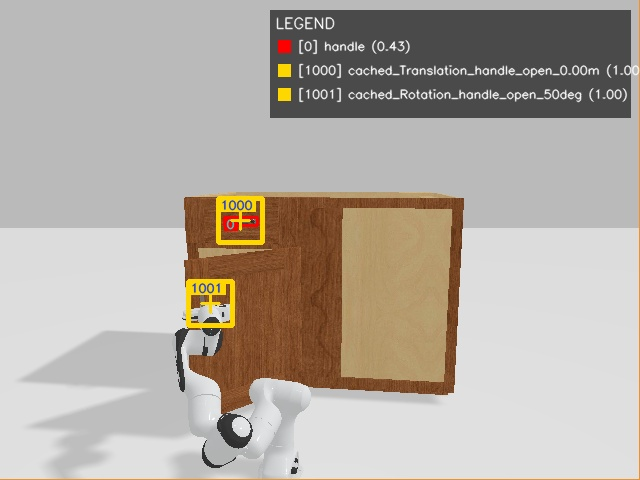
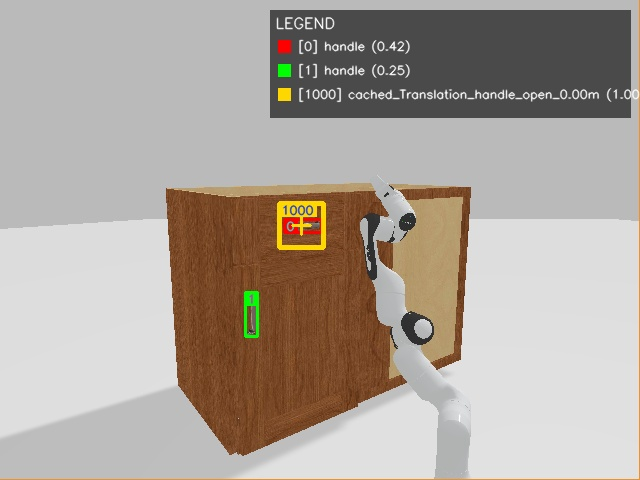
update

diff --git a/action_server.py b/action_server.py
@@ -100,10 +100,11 @@ MAX_DELTA_ANG   = np.deg2rad(2.5)
 GRIPPER_DELTA   = 0.003  # m per step
 GRIPPER_OPEN    = 0.04
 GRIPPER_CLOSED  = 0.000
-GRASP_OFFSET    = 0.08  # m — distance from Panda 'hand' frame to finger tips
-GRASP_DEPTH_OFFSET = 0.015  # m — pull back the target pose to avoid hitting the door
+GRASP_OFFSET    = 0.10  # m — distance from Panda 'hand' frame to finger tips
+
+RESET_RETREAT_DIST = 0.05  # m — move along current gripper -Z before returning home
 TARGET_Z_OFFSET = 0.00   # m — upward shift of the target grasp point
-NORMAL_SCAN_RADIUS = 0.15 # m — radius around handle to sample panel points
+NORMAL_SCAN_RADIUS = 0.1 # m — radius around handle to sample panel points
 
 PULL_LINEAR_DIST = 0.38  # m total drawer pull
 PULL_STEP        = 0.005  # m per step increment
@@ -112,6 +113,7 @@ ARC_STEP         = np.deg2rad(0.4)  # rad per step
 
 # ProbePull / TypeCheck
 PROBE_DISTANCE       = 0.05   # m — small pull for type identification
+PROBE_PULL_TIMEOUT   = 5.0    # s — stop ProbePull even if target distance is not reached
 TYPECHECK_MARGIN     = 0.002  # m — margin for Translation vs Rotation decision
 TYPECHECK_VISUALIZE_OPEN3D = False  # blocking Open3D window after TypeCheck
 EDGE_PERCENTILE      = 10     # % — edge band width for axis fitting
@@ -355,7 +357,7 @@ def project_world_to_pixel(point_world: np.ndarray,
 def backproject_mask_to_pcd(depth: np.ndarray, mask: np.ndarray,
                              cam_pos: np.ndarray, cam_mat: np.ndarray,
                              fovy_deg: float,
-                             max_points: int = 2000) -> np.ndarray:
+                             max_points: Optional[int] = 2000) -> np.ndarray:
     """Back-project all masked depth pixels to world-space point cloud (Nx3)."""
     h, w = depth.shape
     f = (h / 2.0) / np.tan(np.deg2rad(fovy_deg) / 2.0)
@@ -368,7 +370,7 @@ def backproject_mask_to_pcd(depth: np.ndarray, mask: np.ndarray,
     if len(v_idx) == 0:
         return np.zeros((0, 3), dtype=np.float64)
 
-    if len(v_idx) > max_points:
+    if max_points is not None and len(v_idx) > max_points:
         rng = np.random.default_rng(0)
         idxs = rng.choice(len(v_idx), max_points, replace=False)
         v_idx, u_idx, zs = v_idx[idxs], u_idx[idxs], zs[idxs]
@@ -994,10 +996,12 @@ def estimate_panel_normal(depth: np.ndarray, handle_bbox: List[int],
                            cam_pos: np.ndarray, cam_mat: np.ndarray,
                            fovy_deg: float,
                            parent_mask: Optional[np.ndarray] = None,
+                           robot_link_poses: Optional[Dict[str, np.ndarray]] = None,
                            scan_radius: float = NORMAL_SCAN_RADIUS) -> Tuple[np.ndarray, np.ndarray]:
     """
     Estimate the outward face normal of the panel around the handle.
-    Uses a 3D radius search + 2D handle bbox exclusion + SAM mask filtering.
+    Uses a 3D radius search + 2D handle bbox exclusion + optional SAM mask
+    and robot-link filtering.
     """
     h, w = depth.shape
     hx1, hy1, hx2, hy2 = [int(v) for v in handle_bbox]
@@ -1037,11 +1041,24 @@ def estimate_panel_normal(depth: np.ndarray, handle_bbox: List[int],
         if np.linalg.norm(p_world - handle_3d) < scan_radius:
             final_pts.append(p_world)
 
-    if len(final_pts) < 10:
-        print(f"[Planner] [ERROR] normal estimation failed: only {len(final_pts)} points. Using fallback.")
-        return -cam_mat[:, 2], np.array(final_pts) if final_pts else np.zeros((0, 3))
+    pts_world = (np.stack(final_pts)
+                 if final_pts else np.zeros((0, 3), dtype=np.float64))
 
-    pts_world = np.stack(final_pts)
+    robot_segments = get_robot_segments(robot_link_poses or {})
+    if len(pts_world) > 0 and robot_segments:
+        robot_mask = dist_to_robot_segments(pts_world, robot_segments)
+        removed = int(robot_mask.sum())
+        if removed > 0:
+            pts_world = pts_world[~robot_mask]
+            print(f"[Planner] Normal PCD robot filter: removed "
+                  f"{removed}/{removed + len(pts_world)} pts")
+
+    if len(pts_world) < 10:
+        print(f"[Planner] [ERROR] normal estimation failed: only "
+              f"{len(pts_world)} points after filtering "
+              f"(raw={len(final_pts)}). Using fallback.")
+        return -cam_mat[:, 2], pts_world
+
     ctr = pts_world.mean(axis=0)
     _, _, Vt = np.linalg.svd(pts_world - ctr)
     normal = Vt[-1]
@@ -1720,6 +1737,7 @@ class ActionPlanner:
         self.stages     : List[str]      = []
         self.stage_idx  : int            = 0
         self.stage_step_count : int      = 0
+        self.stage_started_at : Optional[float] = None
         self.detections : List[Dict]     = []
 
         self.handle_3d         : Optional[np.ndarray] = None
@@ -1727,6 +1745,9 @@ class ActionPlanner:
         self.grasp_pos         : Optional[np.ndarray] = None
         self.grasp_quat        : Optional[np.ndarray] = None
         self.post_pull_pos     : Optional[np.ndarray] = None
+        self.reset_retreat_pos : Optional[np.ndarray] = None
+        self.reset_retreat_quat: Optional[np.ndarray] = None
+        self.reset_retreat_grip: Optional[float] = None
         self.approach_pos      : Optional[np.ndarray] = None
         self.approach_quat     : Optional[np.ndarray] = None
         self.panel_normal      : Optional[np.ndarray] = None
@@ -1781,6 +1802,7 @@ class ActionPlanner:
         self.probe_end_link_poses     : Dict[str, np.ndarray]        = {}
         self.probe_end_gripper_pos    : Optional[np.ndarray]         = None
         self.probe_end_object_pcd     : Optional[np.ndarray]         = None
+        self.probe_pull_timeout_reported : bool = False
 
         # TypeCheck result
         self.typecheck_result : Optional[Dict] = None
@@ -1809,10 +1831,10 @@ class ActionPlanner:
                 "plan": ["Reset"],
                 "motion_type": "Reset",
             }
-            self.stages = ["Reset"]
+            self.stages = ["ResetRetreat", "Reset"]
             self.state = "EXECUTING"
             self.stage_idx = 0
-            print("[Planner] Reset-only instruction — returning to recorded home pose.")
+            print("[Planner] Reset-only instruction — retreating along gripper -Z, then returning home.")
             return
 
         # ── 1. Detection ───────────────────────────────────────────────────
@@ -1855,10 +1877,10 @@ class ActionPlanner:
         # whether ProbePull / TypeCheck are needed).
         vlm_plan = list(plan["plan"])
         if vlm_plan == ["Reset"]:
-            self.stages = ["Reset"]
+            self.stages = ["ResetRetreat", "Reset"]
             self.state = "EXECUTING"
             self.stage_idx = 0
-            print("[Planner] Reset-only plan — skipping handle geometry.")
+            print("[Planner] Reset-only plan — retreating along gripper -Z, then skipping handle geometry.")
             return
         has_pull = any("Pull" in s for s in vlm_plan)
         has_push = any("Push" in s for s in vlm_plan)
@@ -1879,13 +1901,42 @@ class ActionPlanner:
                   f"ID {handle_det['index']}; handle_3d = {np.round(self.handle_3d, 3)}")
         else:
             bx1, by1, bx2, by2 = handle_det["box"]
-            uc, vc = (bx1 + bx2) / 2.0, (by1 + by2) / 2.0
-            d_val = self._sample_valid_depth(depth, vc, uc, H, W)
+            handle_mask = None
+            if "mask" in handle_det:
+                handle_mask = decode_mask(handle_det["mask"], H, W)
 
-            if d_val > 0:
-                self.handle_3d = backproject_pixel(uc, vc, d_val, cam_pos, cam_mat, fovy, H, W)
+            if handle_mask is not None:
+                handle_pts = backproject_mask_to_pcd(
+                    depth, handle_mask, cam_pos, cam_mat, fovy, max_points=None
+                )
             else:
-                self.handle_3d = point_cloud.mean(axis=0)
+                handle_pts = np.zeros((0, 3), dtype=np.float64)
+
+            if len(handle_pts) > 0:
+                self.handle_3d = handle_pts.mean(axis=0)
+                print(f"[Planner] [Step 4/7] handle mask centroid from "
+                      f"{len(handle_pts)} points.")
+            else:
+                x1 = int(np.clip(np.floor(bx1), 0, W - 1))
+                y1 = int(np.clip(np.floor(by1), 0, H - 1))
+                x2 = int(np.clip(np.ceil(bx2), 0, W - 1))
+                y2 = int(np.clip(np.ceil(by2), 0, H - 1))
+                bbox_mask = np.zeros((H, W), dtype=bool)
+                if x2 >= x1 and y2 >= y1:
+                    bbox_mask[y1:y2 + 1, x1:x2 + 1] = True
+
+                bbox_pts = backproject_mask_to_pcd(
+                    depth, bbox_mask, cam_pos, cam_mat, fovy, max_points=None
+                )
+                if len(bbox_pts) > 0:
+                    self.handle_3d = bbox_pts.mean(axis=0)
+                    print("[Planner] [Step 4/7] WARNING: handle mask unavailable "
+                          f"or empty; used bbox point-cloud centroid from "
+                          f"{len(bbox_pts)} points.")
+                else:
+                    self.handle_3d = point_cloud.mean(axis=0)
+                    print("[Planner] [Step 4/7] WARNING: handle mask and "
+                          "bbox point cloud unavailable; used point cloud mean.")
 
             self.handle_3d[2] += TARGET_Z_OFFSET
             print(f"[Planner] [Step 4/7] handle_3d = {np.round(self.handle_3d, 3)}")
@@ -1920,7 +1971,8 @@ class ActionPlanner:
             self.panel_normal, self.normal_pts = estimate_panel_normal(
                 depth, handle_det["box"], self.handle_3d,
                 cam_pos, cam_mat, fovy,
-                parent_mask=None
+                parent_mask=None,
+                robot_link_poses=self._curr_link_poses,
             )
             print(f"[Planner] Final normal = {np.round(self.panel_normal, 3)}")
 
@@ -2095,6 +2147,8 @@ class ActionPlanner:
             return np.concatenate([curr_pos, matrix_to_rot6d(curr_rot), [curr_grip]]).astype(np.float32)
 
         stage = self.stages[self.stage_idx]
+        if self.stage_step_count == 0:
+            self.stage_started_at = time.monotonic()
         self.stage_step_count += 1
         tgt_pos, tgt_quat, tgt_grip = self._target(stage, curr_pos, curr_rot, curr_grip)
 
@@ -2122,6 +2176,20 @@ class ActionPlanner:
     def _target(self, stage: str, curr_pos, curr_rot,
                 curr_grip) -> Tuple[np.ndarray, np.ndarray, float]:
         """Return (target_pos, target_quat_wxyz, target_gripper_width)."""
+
+        # ── Reset pre-retreat ─────────────────────────────────────────────
+        if stage == "ResetRetreat":
+            if self.reset_retreat_pos is None:
+                retreat_dir = -curr_rot[:, 2]
+                self.reset_retreat_pos = curr_pos + retreat_dir * RESET_RETREAT_DIST
+                self.reset_retreat_quat = scipy_to_wxyz(R.from_matrix(curr_rot))
+                self.reset_retreat_grip = float(curr_grip)
+                print(f"[Planner] ResetRetreat target = "
+                      f"{np.round(self.reset_retreat_pos, 3)} "
+                      f"(current gripper -Z, {RESET_RETREAT_DIST:.2f}m)")
+            return (self.reset_retreat_pos,
+                    self.reset_retreat_quat,
+                    self.reset_retreat_grip)
 
         # ── Reset ─────────────────────────────────────────────────────────
         if stage == "Reset":
@@ -2399,6 +2467,9 @@ class ActionPlanner:
         if stage in ("MoveTo", "Approach", "Reset"):
             return (pos_err < APPROACH_POS_TOL) and (ang_err < STAGE_ANG_TOL)
 
+        elif stage == "ResetRetreat":
+            return pos_err < APPROACH_POS_TOL
+
         elif stage == "Grasp":
             return (grip_err < STAGE_GRIP_TOL) or (self.stage_step_count > GRASP_TIMEOUT_STEPS)
 
@@ -2406,6 +2477,14 @@ class ActionPlanner:
             if self.grasp_pos is None:
                 return False
             pulled = np.linalg.norm(curr_pos - self.grasp_pos)
+            elapsed = (time.monotonic() - self.stage_started_at
+                       if self.stage_started_at is not None else 0.0)
+            if elapsed >= PROBE_PULL_TIMEOUT:
+                if not self.probe_pull_timeout_reported:
+                    print(f"[Planner] ProbePull timeout after {elapsed:.1f}s "
+                          f"(pulled={pulled:.4f}m); treating probe as complete.")
+                    self.probe_pull_timeout_reported = True
+                return True
             return pulled >= PROBE_DISTANCE - 0.005
 
         elif stage == "TypeCheck":

diff --git a/client_sapien_40147.py b/client_sapien_40147.py
@@ -405,7 +405,7 @@ def main():
     #      panda_urdf = "/home/wby/active_vision/vlm_based/panda/panda_v2.urdf"
     
     panda = loader.load(panda_urdf)
-    panda.set_pose(sapien.Pose(p=[0.4, 0.25, 0.0]))
+    panda.set_pose(sapien.Pose(p=[0.4, 0.30, 0.0]))
 
     panda_links = panda.get_links()
     hand_link = next(l for l in panda_links if l.name == 'panda_hand')
@@ -428,7 +428,7 @@ def main():
     for j in gripper_joints:
         j.set_armature(np.ones(j.dof, dtype=np.float32) * 5.0) # 这是一个黑魔法，能让夹爪变得像石头一样硬
 
-    init_qpos = np.array([-1.7046, -0.1386, 1.0432, -0.5671, -0.1289, 2.8682, -1.3343, 0.04, 0.04])
+    init_qpos = np.array([-1.7046, -0.1386, 1.2432, -0.8671, -0.1289, 2.8682, -1.3343, 0.04, 0.04])
     panda.set_qpos(init_qpos)
     for i, ji in enumerate(arm_indices): arm_joints[i].set_drive_target(float(init_qpos[ji]))
     for i, ji in enumerate(gripper_indices): gripper_joints[i].set_drive_target(float(init_qpos[ji]))
@@ -452,41 +452,8 @@ def main():
         for comp in link.entity.get_components():
             if isinstance(comp, sapien.physx.PhysxCollisionShape): comp.set_material(ps_mat)
 
-    # ── 碰撞过滤：取消手臂与柜子的碰撞，保留手指与柜子/把手的碰撞 ──────────
-    # SAPIEN collision_groups = (g0, g1, g2, g3)
-    # 规则：A 忽略 B  ⟺  (A.g3 & B.g0) != 0  或  (B.g3 & A.g0) != 0
-    #
-    # 分配方案：
-    #   bit1 (0x2) → "柜子"标签
-    #   机械臂手臂（非手指）links → g3 |= bit1  （忽略带 bit1 的对象）
-    #   柜子所有 links            → g0 |= bit1  （被标记为柜子）
-    #   手指 links                → 不修改       （与柜子保持碰撞）
-
-    CABINET_BIT = 0x2   # 标记"柜子"的 bit
-
-    # 1. 给柜子所有 links 的碰撞形状打上 CABINET_BIT 标记（group0）
-    for link in cabinet.get_links():
-        for comp in link.entity.get_components():
-            if isinstance(comp, sapien.physx.PhysxCollisionShape):
-                g = list(comp.collision_groups)   # [g0, g1, g2, g3]
-                g[0] |= CABINET_BIT
-                comp.collision_groups = tuple(g)
-
-    # 2. 机械臂手臂 links（排除手指）→ group3 设 CABINET_BIT（忽略柜子）
-    finger_names = {'panda_leftfinger', 'panda_rightfinger'}
-    for link in panda_links:
-        if link.name in finger_names:
-            continue   # 手指保留与柜子的碰撞
-        for comp in link.entity.get_components():
-            if isinstance(comp, sapien.physx.PhysxCollisionShape):
-                g = list(comp.collision_groups)
-                g[3] |= CABINET_BIT   # 忽略 group0 带 CABINET_BIT 的对象（即柜子）
-                comp.collision_groups = tuple(g)
-
-    print("[Collision] 手臂↔柜子碰撞已禁用，手指↔柜子碰撞保留。")
-
     cam = scene.add_camera('rgbd_camera', 640, 480, np.deg2rad(60), 0.01, 10.0)
-    cam_eye, cam_target = np.array([-1.14, -0.09, 1.2]), np.array([1.367079, 0.197510, 0.82])
+    cam_eye, cam_target = np.array([-0.42, 1.48, 1.2]), np.array([1.367079, 0.197510, 0.82])
     cam.entity.set_pose(sapien_look_at(cam_eye, cam_target))
 
     # 录制器初始化
@@ -518,16 +485,6 @@ def main():
     obs_history = {'pc': [], 'gp': [], 'ap': []}
     step_idx = 0
     
-    # 预览模式
-    started = False
-    while not started:
-        if viewer is not None:
-            if viewer.closed: return
-            if viewer.window.key_down('space'): started = True
-            viewer.render()
-        scene.step()
-        time.sleep(0.01)
-
     print("🚀 异步控制已启动...")
     
     # 时钟对齐